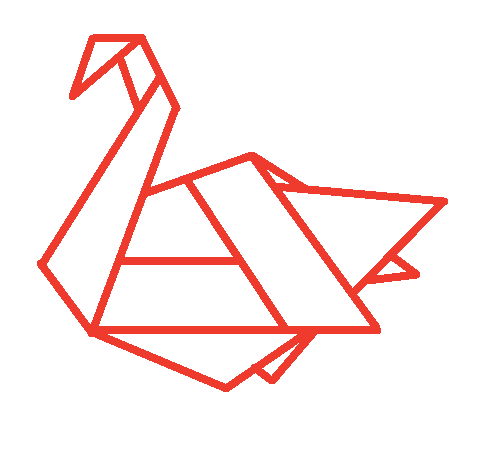
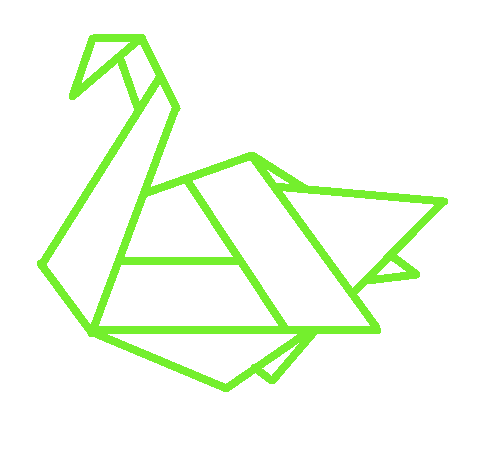
change --brand-color

Changed region(s): [[0.0605, 0.0605, 0.9073, 0.8467]]

diff --git a/resources/scss/partials/_header.scss b/resources/scss/partials/_header.scss
@@ -5,15 +5,15 @@
     // }
 
     a:hover{
-        color: var(--brand-red);
+        color: var(--brand-color);
     }
 
 
     .dropdown-item {
-        color:  var(--brand-red);
+        color:  var(--brand-color);
 
         &:hover {
-            background-color: #515151;
+            background-color: var(--card-color);
             color: white;
         }
     }
@@ -23,7 +23,7 @@
     }
 
     .dropdown-toggle:after, .nav-link::after {
-        color: var(--brand-red);
+        color: var(--brand-color);
     }
 
     img {
@@ -32,7 +32,7 @@
 
     .dropdown-menu {
         background-color: #212529;
-        border: solid 1px var(--brand-red);
+        border: solid 1px var(--brand-color);
     }
 
     

diff --git a/resources/scss/partials/_main.scss b/resources/scss/partials/_main.scss
@@ -2,11 +2,11 @@ main {
     padding-top: 100px;
     padding-bottom: 50px;
     color: white;
-    background-color: var(--dark-gray);
+    background-color: var(--brand-bg);
 
     .card{
-        border: solid 2px var(--brand-red);
-        background-color: #515151;
+        border: solid 2px var(--brand-color);
+        background-color: var(--card-bg);
         color: white;
         text-align: center;
 
@@ -17,6 +17,14 @@ main {
         & a {
             text-decoration: none;
             color: currentColor;
+        }
+
+        & a:hover{
+            color: var(--brand-color);
+        }
+
+        & i, .card-title {
+            color: var(--brand-color);
         }
 
         

diff --git a/resources/scss/partials/_general.scss b/resources/scss/partials/_general.scss
@@ -1,12 +1,23 @@
 :root {
 
-    --dark-gray :#212529;
-    --brand-red :#EF3B2D;
+    --brand-bg :#212529;
+    --brand-color :#74ef2d;
+    --card-bg: #515151;
 
 }
 
 
 body {
     color: white;
-    background-color: var(--dark-gray);
+    background-color: var(--brand-bg);
+}
+
+.btn-dark{
+
+    border: 1px solid transparent;
+
+    &:hover {
+        color: var(--brand-color);
+        border: 1px solid var(--brand-color);
+    }
 }

diff --git a/resources/scss/partials/_footer.scss b/resources/scss/partials/_footer.scss
@@ -2,7 +2,11 @@
     color: white;
     font-size: 14px;
 
+    & a {
+        color: var(--brand-color);
+    }
+
     a:hover {
-        color: var(--brand-red);
+        color: white;
     }
 }

diff --git a/resources/views/admin/projects/show.blade.php b/resources/views/admin/projects/show.blade.php
@@ -43,8 +43,8 @@ show
                             <div class="my-modal">
                                 <div class="modal-container">
                                     <h5 class="text-center me-5">Delete this project?</h5>
-                                    <span class="btn btn-danger modal-run mx-5">Yes, Delete</span>
-                                    <span class="btn btn-success modal-stop">No, Comeback</span>
+                                    <span class="btn btn-dark modal-run mx-5">Yes, Delete</span>
+                                    <span class="btn btn-dark modal-stop">No, Comeback</span>
                                 </div>
                             </div>
 

diff --git a/resources/views/auth/register.blade.php b/resources/views/auth/register.blade.php
@@ -63,7 +63,7 @@
 
                         <div class="mb-4 row mb-0">
                             <div class="col-md-6 offset-md-4">
-                                <button type="submit" class="btn btn-primary">
+                                <button type="submit" class="btn btn-dark">
                                     {{ __('Register') }}
                                 </button>
                             </div>

diff --git a/resources/views/auth/login.blade.php b/resources/views/auth/login.blade.php
@@ -53,7 +53,7 @@
 
                         <div class="mb-4 row mb-0">
                             <div class="col-md-8 offset-md-4">
-                                <button type="submit" class="btn btn-primary">
+                                <button type="submit" class="btn btn-dark">
                                     {{ __('Login') }}
                                 </button>
 
